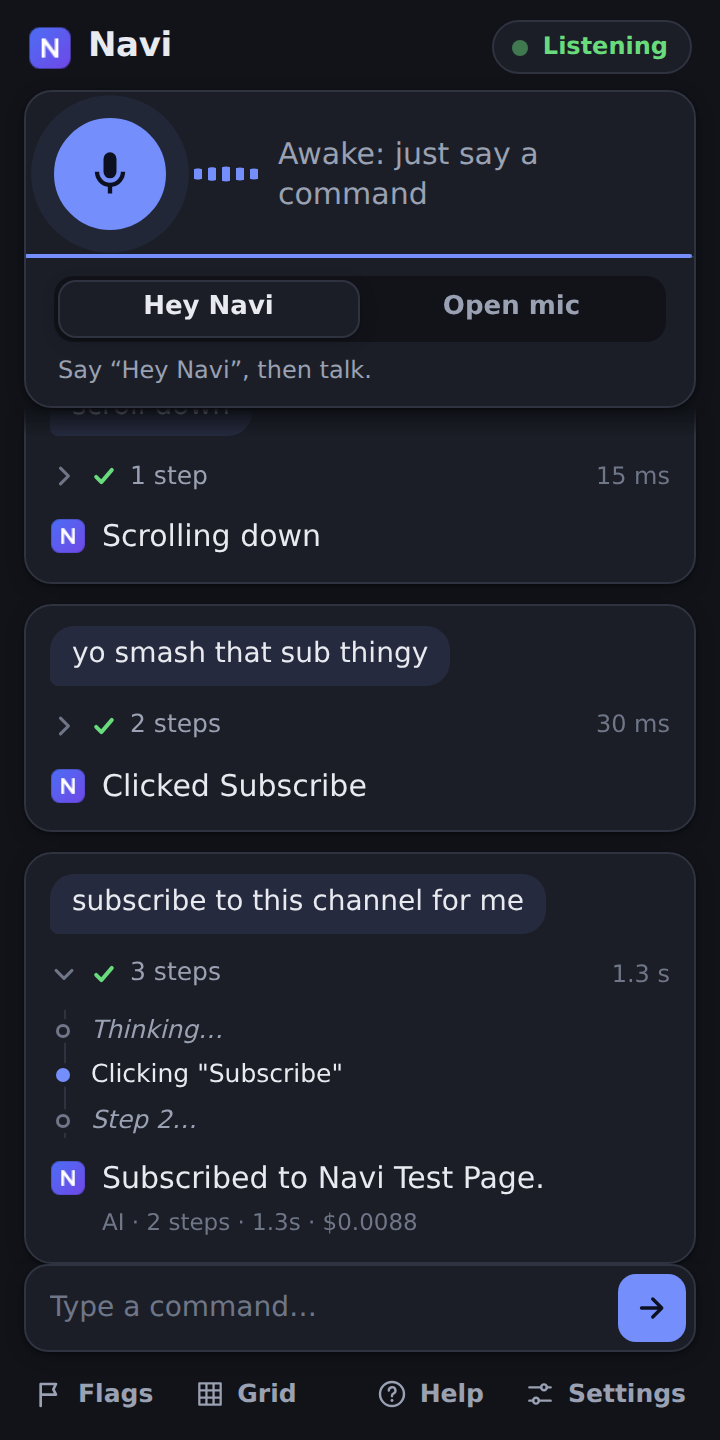
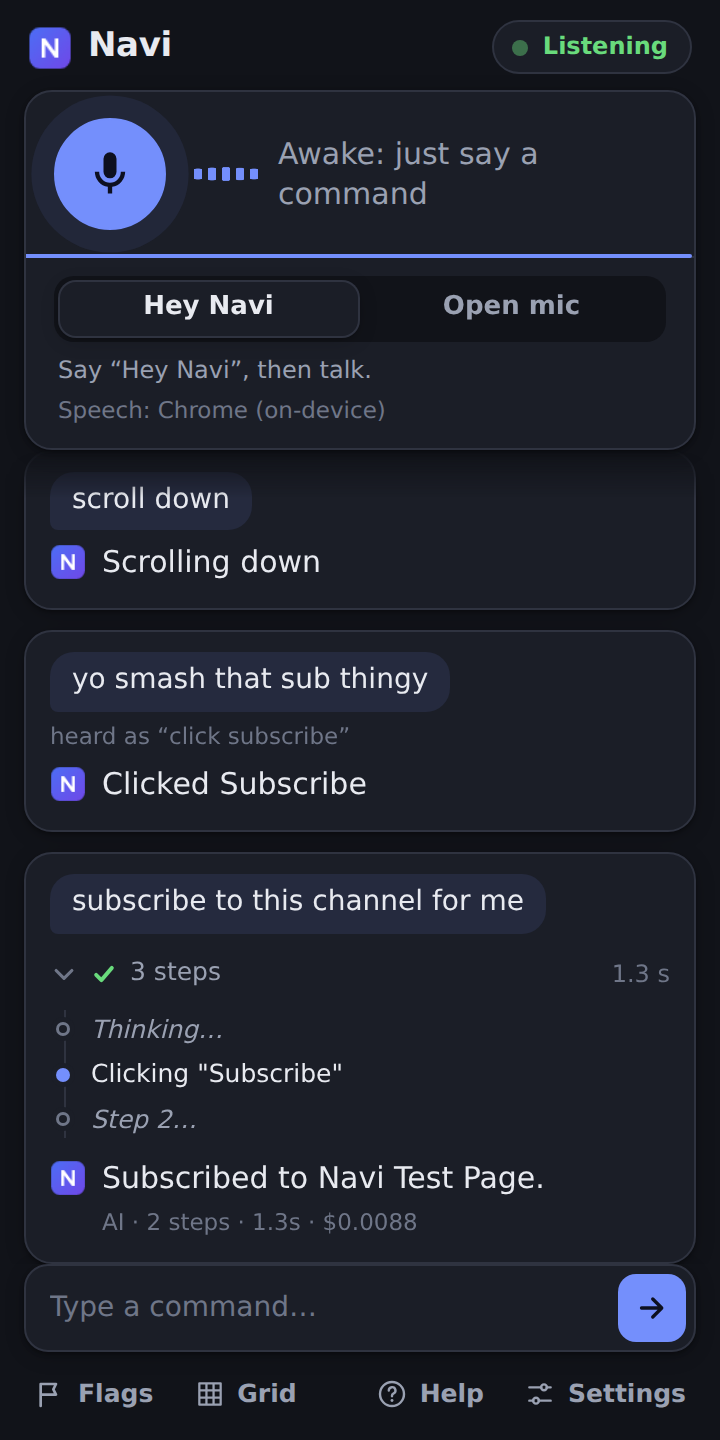
Calmer activity feed: steps row only for AI tasks, no repeated notes
- Quick commands show just what you said and the result; routed ones add a
  small "heard as …" line (handy for spotting mishearings).
- Only AI tasks get the collapsible steps row; the live step also shows in
  the voice card while it works.
- Ignored / not-understood speech is one faint line instead of a card.
- The speech engine is a small label in the voice card instead of repeated
  "Speech: …" notes; "I'm listening" and "Went to sleep" notes are gone (the
  status pill and sounds cover them); identical errors are counted (×2).

Claude-Session: https://claude.ai/code/session_01LYWx4nWh6h5HAgc8L7ejqw

diff --git a/src/sidepanel/feed.ts b/src/sidepanel/feed.ts
@@ -1,6 +1,9 @@
 // The side panel's activity feed. The controller logs flat entries (user, step, navi, info, error); the feed
-// groups them into one card per command: what you said, one collapsible row holding the steps Navi took, and
-// the result. Every entry is still an `li.<kind>` inside #log, so tests and the log restore keep working.
+// groups them into one card per command, kept minimal:
+// - quick commands (no AI): what you said and the result; routed ones add a small "heard as …" note
+// - AI tasks: one collapsible row holding the steps (the live step also shows in the voice card)
+// - ignored or not understood: a single faint line
+// Every entry is still an `li.<kind>` inside #log, so tests and the log restore keep working.
 
 import type { LogKind } from "./controller";
 
@@ -28,6 +31,11 @@ interface Turn {
     list: HTMLOListElement;
   };
   state: TurnState;
+  /** The AI worked on this command (it gets the steps row). */
+  ai: boolean;
+  /** What the router turned loose speech into, if it did. */
+  heard: string;
+  heardEl: HTMLLIElement;
   start?: number;
   end?: number;
   steps: number;
@@ -175,6 +183,16 @@ export class Feed {
       else if (entry.kind !== "info") turnId = this.legacyTurn;
     }
     if (!turnId) {
+      // The same error again (e.g. a button pressed twice on a Chrome page): count it instead of repeating it.
+      const prev = this.list.lastElementChild as HTMLElement | null;
+      if (entry.kind === "error" && prev?.matches("li.solo.error") && prev.querySelector(".text")?.textContent === entry.text) {
+        const count = Number(prev.dataset.count ?? "1") + 1;
+        prev.dataset.count = String(count);
+        let badge = prev.querySelector(".count");
+        if (!badge) prev.append((badge = el("span", "count")));
+        badge.textContent = `×${count}`;
+        return;
+      }
       const li = this.entryItem(entry);
       li.classList.add("solo");
       this.list.append(li);
@@ -185,13 +203,19 @@ export class Feed {
     if (!turn) turn = this.createTurn(turnId);
     const t = entry.t;
     switch (entry.kind) {
-      case "user":
-        turn.items.prepend(this.entryItem(entry));
+      case "user": {
+        const li = this.entryItem(entry);
+        turn.items.prepend(li);
+        li.after(turn.heardEl);
         if (t !== undefined) turn.start = t;
         break;
+      }
       case "step": {
         const li = this.entryItem(entry);
         li.dataset.type = stepType(entry.text);
+        if (li.dataset.type === "think") turn.ai = true;
+        const heard = /^Understood as “(.+?)”/.exec(entry.text);
+        if (heard) turn.heard = heard[1];
         turn.trace.list.append(li);
         turn.steps++;
         turn.activity = entry.text;
@@ -200,6 +224,7 @@ export class Feed {
       }
       case "navi":
       case "error":
+        if (entry.meta?.startsWith("AI")) turn.ai = true;
         turn.items.append(this.entryItem(entry));
         // The latest result decides: a passing hiccup (e.g. the speech service) doesn't fail a command that then worked.
         turn.result = entry.kind === "error" ? "error" : "ok";
@@ -234,7 +259,9 @@ export class Feed {
     });
     traceLi.append(details);
     traceLi.hidden = true;
-    items.append(traceLi);
+    const heardEl = el("li", "heard");
+    heardEl.hidden = true;
+    items.append(heardEl, traceLi);
     li.append(items);
     this.list.append(li);
     const turn: Turn = {
@@ -243,6 +270,9 @@ export class Feed {
       items,
       trace: { li: traceLi, details, label, time, list },
       state: "idle",
+      ai: false,
+      heard: "",
+      heardEl,
       steps: 0,
       activity: "",
       result: "none",
@@ -266,7 +296,13 @@ export class Feed {
     const { trace } = turn;
     const working = turn.state === "working";
     turn.el.dataset.state = working ? "working" : "done";
-    trace.li.hidden = !working && turn.steps === 0;
+    // Finished quick commands need no steps row; ignored ones keep it as their one-line outcome.
+    const quiet = !working && !turn.ai && turn.result === "none";
+    turn.el.dataset.kind = turn.ai ? "ai" : quiet ? "quiet" : "quick";
+    trace.li.hidden = !working && (turn.steps === 0 || (!turn.ai && !quiet));
+    turn.heardEl.hidden = working || turn.ai || quiet || !turn.heard;
+    const heardText = turn.heard ? `heard as “${turn.heard}”` : "";
+    if (turn.heardEl.textContent !== heardText) turn.heardEl.textContent = heardText;
     trace.li.dataset.state = working ? "working" : turn.result === "none" ? "plain" : turn.result;
     let label: string;
     let time: string;

diff --git a/src/sidepanel/main.ts b/src/sidepanel/main.ts
@@ -37,7 +37,17 @@ const ui = {
   sessionBar: $("session-bar"),
   numbersButton: $<HTMLButtonElement>("toggle-numbers"),
   gridButton: $<HTMLButtonElement>("toggle-grid"),
+  engine: $("engine"),
 };
+
+// Which speech recognizer is listening, shown as a small label rather than notes in the feed.
+let chromeSpeechLabel = "";
+function renderEngine() {
+  const eleven = scribe?.live ? `ElevenLabs${settings.filterBackgroundAudio ? " · ignores background voices" : ""}` : "";
+  const label = eleven || chromeSpeechLabel;
+  ui.engine.hidden = !label || !engine?.running;
+  ui.engine.textContent = label ? `Speech: ${label}` : "";
+}
 
 let settings: Settings = DEFAULT_SETTINGS;
 /** Chrome's recognizer: always on while listening (wake word, "stop" during replies, fallback). */
@@ -46,7 +56,6 @@ let engine: SpeechEngine | null = null;
 let scribe: ScribeEngine | null = null;
 /** ElevenLabs failed for good (bad key, quota); stay on Chrome's recognizer until settings change. */
 let scribeDisabled = false;
-let announcedScribe = false;
 let working = false;
 let micError = false;
 
@@ -116,6 +125,7 @@ const controller = new Controller(
 );
 
 function renderStatus(detail?: string) {
+  renderEngine();
   let state = "off";
   let text = "Mic off";
   if (micError) {
@@ -190,9 +200,9 @@ window.setInterval(() => {
   // Detect the session timing out on its own.
   const awake = session.current === "awake";
   if (wasAwake && !awake && settings.listenMode === "handsfree" && engine?.running) {
+    // The status pill and a sound say this; no note in the feed.
     earcons.sleep();
     stopScribe();
-    log("info", "Went to sleep. Say “Hey " + settings.wakeName + "” to wake me.");
   }
   wasAwake = awake;
   if (working) session.touch();
@@ -224,7 +234,6 @@ function handleFinal(transcript: string, confidence = 0) {
     earcons.wake();
     wasAwake = true;
     startScribe();
-    if (!decision.command) log("info", "I'm listening.");
   }
   if (decision.command) {
     void controller.run(decision.command, { source: "voice", confidence });
@@ -276,6 +285,11 @@ function buildEngine(): SpeechEngine {
         renderStatus();
       },
       onInfo: (message) => {
+        if (message.startsWith("Speech: ")) {
+          chromeSpeechLabel = message.slice("Speech: ".length).replace(/^Chrome speech/, "Chrome");
+          renderEngine();
+          return;
+        }
         // Restarts (e.g. after a settings change) repeat the same notes; show each once.
         if (message !== lastSpeechInfo) log("info", message);
         lastSpeechInfo = message;
@@ -301,11 +315,8 @@ function startScribe() {
     {
       onInterim: handleInterim,
       onFinal: handleFinal,
-      onRunningChange(running) {
-        if (running && !announcedScribe) {
-          announcedScribe = true;
-          log("info", `Speech while awake: ElevenLabs${settings.filterBackgroundAudio ? ", ignoring background voices" : ""}.`);
-        }
+      onRunningChange() {
+        renderEngine();
         renderStatus();
       },
       onError(message, fatal) {
@@ -327,6 +338,7 @@ function startScribe() {
 function stopScribe() {
   scribe?.stop();
   scribe = null;
+  renderEngine();
 }
 
 let listenGeneration = 0;

diff --git a/tests/e2e/sidepanel-ui.spec.ts b/tests/e2e/sidepanel-ui.spec.ts
@@ -282,7 +282,9 @@ test("fast commands and unrecognized ones stay compact; notes sit between cards"
   await expect(fast.locator("li.navi")).toContainText("Scrolling down");
   await expect(fast.locator("li.step")).toHaveCount(1);
   await expect(fast.locator("li.step")).toContainText("Fast path");
-  await expect(fast.locator(".trace-label")).toHaveText("1 step");
+  // Quick commands are just what you said and the result: no steps row.
+  await expect(fast).toHaveAttribute("data-kind", "quick");
+  await expect(fast.locator(".trace")).toBeHidden();
 
   // No AI key and no match: the outcome is the step itself, so it shows without opening the row.
   await run(panel, "flibbertigibbet the wobbly thing");
@@ -290,6 +292,8 @@ test("fast commands and unrecognized ones stay compact; notes sit between cards"
   await expect(unknown.locator("li.navi")).toHaveCount(0);
   await expect(unknown.locator(".trace-label")).toBeVisible();
   await expect(unknown.locator(".trace-label")).toContainText("Didn't catch that");
+  // Not understood: one faint line rather than a card.
+  await expect(unknown).toHaveAttribute("data-kind", "quiet");
 });
 
 test("reopening the panel rebuilds the same cards", async ({ panel, site, context }) => {
@@ -314,6 +318,9 @@ test("reopening the panel rebuilds the same cards", async ({ panel, site, contex
   const routed = cards.nth(1);
   await expect(routed.locator("li.user")).toContainText("yo smash that sub thingy");
   await expect(routed.locator("li.step").first()).toContainText("Understood as “click subscribe”");
+  // A routed command shows what the router made of the speech, and no steps row.
+  await expect(routed.locator("li.heard")).toHaveText("heard as “click subscribe”");
+  await expect(routed.locator(".trace")).toBeHidden();
   const ai = cards.nth(2);
   await expect(ai.locator("li.user")).toContainText("hit the subscribe thing for me");
   await expect(ai.locator("li.step")).toHaveCount(3);

diff --git a/src/sidepanel/styles.css b/src/sidepanel/styles.css
@@ -386,7 +386,7 @@ body {
   overflow-y: auto;
   list-style: none;
   /* Cards fade out as they scroll under the voice card instead of being cut off. */
-  mask-image: linear-gradient(transparent, #000 14px);
+  mask-image: linear-gradient(transparent, #000 24px);
 }
 
 .feed li {
@@ -400,6 +400,50 @@ body {
   border-radius: var(--radius-lg);
   background: var(--elevated);
   box-shadow: var(--shadow);
+}
+
+/* Ignored or not understood: one faint line, no card. */
+.turn[data-kind="quiet"] {
+  padding: 0 4px;
+  border-color: transparent;
+  background: none;
+  box-shadow: none;
+  opacity: 0.75;
+}
+
+.turn[data-kind="quiet"] .turn-items {
+  flex-direction: row;
+  flex-wrap: wrap;
+  align-items: center;
+  gap: 2px 8px;
+}
+
+.turn[data-kind="quiet"] .user {
+  padding: 2px 8px;
+  font-size: 12.5px;
+}
+
+.turn[data-kind="quiet"] .trace summary {
+  padding: 0;
+  font-size: 12px;
+}
+
+/* What the router made of loose speech: small, so mishearings are easy to spot. */
+.feed .heard {
+  margin-top: -2px;
+  color: var(--faint);
+  font-size: 11.5px;
+}
+
+.feed .error .count {
+  grid-column: 2;
+  justify-self: start;
+  margin-top: 2px;
+  padding: 0 6px;
+  border-radius: 999px;
+  background: color-mix(in srgb, var(--bad) 18%, transparent);
+  font-size: 11px;
+  font-weight: 700;
 }
 
 .turn[data-state="working"] {
@@ -834,4 +878,11 @@ body {
     background: none;
     color: var(--text);
   }
+}
+
+/* Which speech recognizer is listening. */
+.engine {
+  margin: 4px 2px 0;
+  color: var(--faint);
+  font-size: 11.5px;
 }

diff --git a/src/sidepanel/index.html b/src/sidepanel/index.html
@@ -56,6 +56,7 @@
         </div>
         <p id="hint-handsfree" class="mode-hint" data-mode="handsfree">Say “Hey <span class="wake-name">Navi</span>”, then talk.</p>
         <p id="hint-open" class="mode-hint" data-mode="open">Everything is a command until you turn the mic off.</p>
+        <p id="engine" class="engine" hidden></p>
       </fieldset>
     </section>
 
